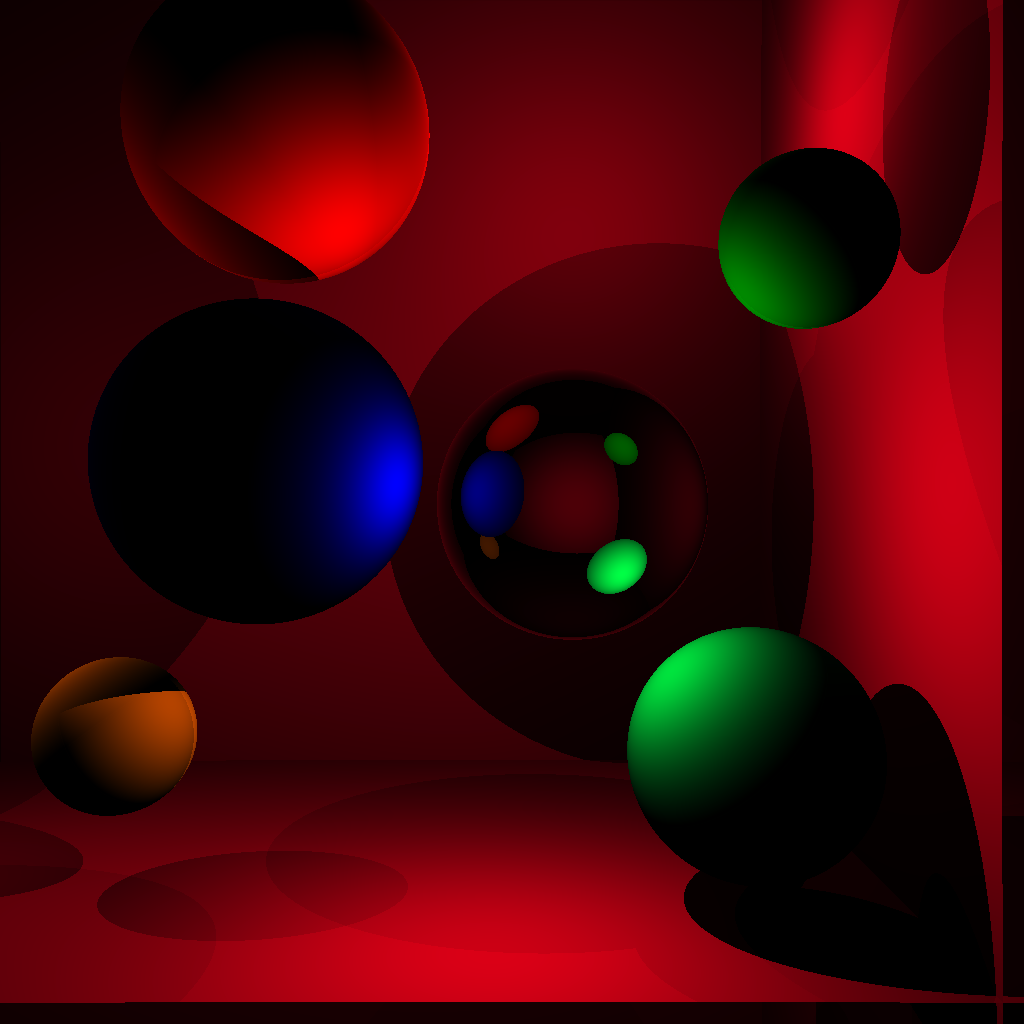
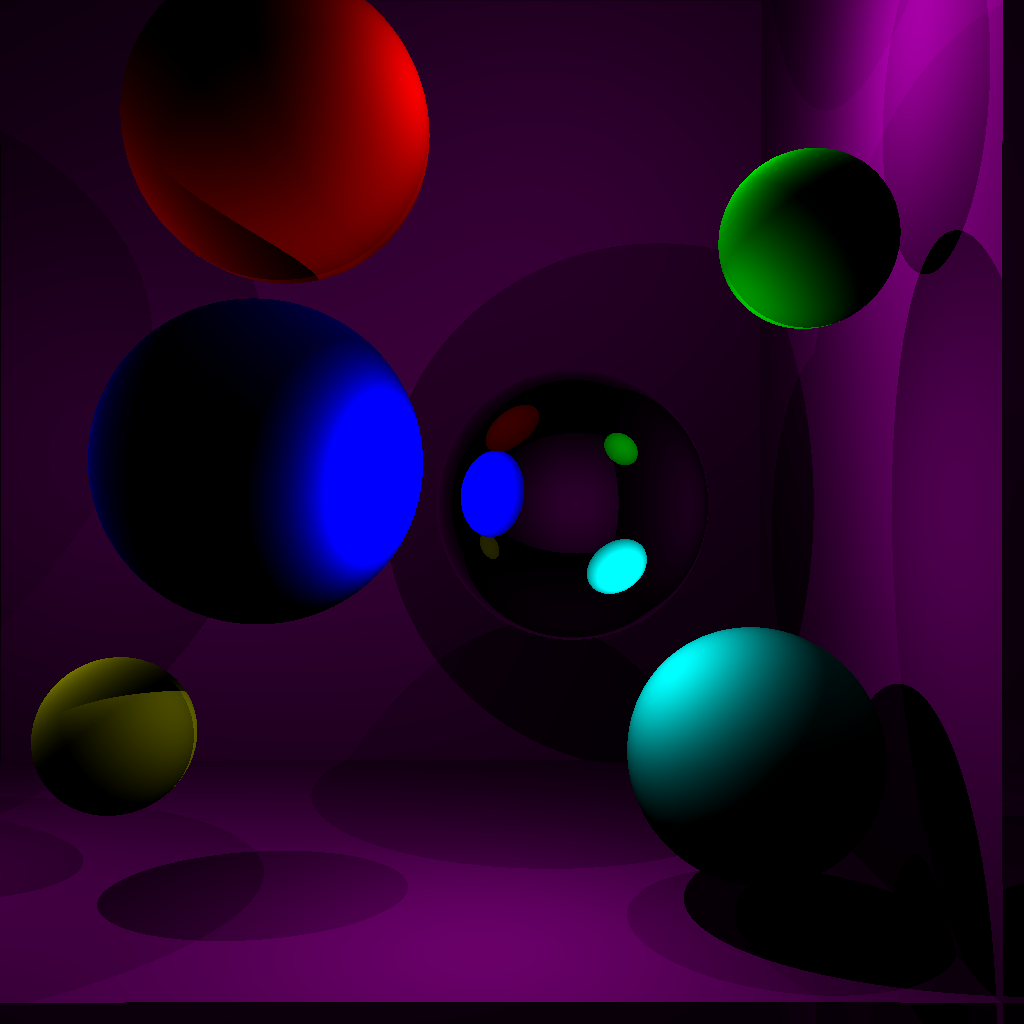
Correction normalisation des couleurs
Utilisation d'un seul max pour la normalisation des couleurs pour obtenir des couleurs fidèles aux albedos

diff --git a/SyntheseTP2/SyntheseTP2/Main.cpp b/SyntheseTP2/SyntheseTP2/Main.cpp
@@ -20,27 +20,36 @@ void encodeOneStep(const char* filename, std::vector<unsigned char>& image, unsi
 
 void normalizeColor(vector<unsigned char>* imageOut, vector<double>* image)
 {
-    double maxRed = 0;
-    double maxGreen = 0;
-    double maxBlue = 0;
+    double max = 0;
     for (int i = 0; i < image->size(); i += 4)
     {
-        if (image->at(i) > maxRed)
-            maxRed = image->at(i);
+        if (image->at(i) > max)
+            max = image->at(i);
 
-        if (image->at(i+1) > maxGreen)
-            maxGreen = image->at(i+1);
+        if (image->at(i+1) > max)
+            max = image->at(i+1);
 
-        if (image->at(i+2) > maxBlue)
-            maxBlue = image->at(i+2);
+        if (image->at(i+2) > max)
+            max = image->at(i+2);
     }
+    
+    max = max / 4;
     for (int i = 0; i < image->size(); i += 4)
     {
-         imageOut->at(i) = (int)((image->at(i) / maxRed) * 255);
+        if ((int)((image->at(i) / max) * 255) > 255)
+            imageOut->at(i) = 255;
+        else
+            imageOut->at(i) = (int)((image->at(i) / max) * 255);
 
-         imageOut->at(i+1) = (int)((image->at(i+1) / maxGreen) * 255);
+        if ((int)((image->at(i+1) / max) * 255) > 255)
+            imageOut->at(i+1) = 255;
+        else
+            imageOut->at(i+1) = (int)((image->at(i+1) / max) * 255);
 
-         imageOut->at(i+2) = (int)((image->at(i+2) / maxBlue) * 255);
+        if ((int)((image->at(i+2) / max) * 255) > 255)
+            imageOut->at(i+2) = 255;
+        else
+            imageOut->at(i+2) = (int)((image->at(i+2) / max) * 255);
 
          imageOut->at(i+3) = image->at(i+3);
     }
@@ -53,27 +62,6 @@ void color(vector<double>* img, int index, Couleur couleur)
     img->at(index + 1) += couleur.green;
 
     img->at(index + 2) += couleur.blue;
-
-    img->at(index + 3) = couleur.alpha;
-}
-
-void color(vector<unsigned char>* img, int index, Couleur couleur)
-{
-    
-    if (img->at(index) + couleur.red > 255)
-        img->at(index) = 255;
-    else
-        img->at(index) += couleur.red;
-
-    if (img->at(index+1) + couleur.green > 255)
-        img->at(index+1) = 255;
-    else
-        img->at(index+1) += couleur.green;    
-
-    if (img->at(index+2) + couleur.blue > 255)
-        img->at(index+2) = 255;
-    else
-        img->at(index+2) += couleur.blue;
 
     img->at(index + 3) = couleur.alpha;
 }
@@ -175,7 +163,7 @@ void mirrorRebound(Vector3 intersection, Rayon rayon, vector<Sphere*> spheres, i
             mirrorRebound(newIntersection, rayonSortant, spheres, sphereIntersect, image, index);
         else
         {
-            Lampe lampe = Lampe(intersection, newIntersection, 80000000);
+            Lampe lampe = Lampe(intersection, newIntersection, 50000000);
             Couleur surface = colorOnSurface(lampe, spheres[sphereIntersect]);
 
             color(image, index, surface);
@@ -270,11 +258,11 @@ int main(int argc, char* argv[]) {
 
         vector<Lampe> lampes;
 
-        Lampe lampe1 = Lampe(Vector3(500, 500, 100), 200000000);
+        Lampe lampe1 = Lampe(Vector3(500, 500, 100), 90000000);
 
         Lampe lampe2 = Lampe(Vector3(-300, 400, 300), 90000000);
 
-        Lampe lampe3 = Lampe(Vector3(650, -100, 500), 90000000);
+        Lampe lampe3 = Lampe(Vector3(650, -100, 200), 90000000);
 
         addLampe(&lampes, lampe1);
         addLampe(&lampes, lampe2);

diff --git a/SyntheseTP2/SyntheseTP2/Couleur.h b/SyntheseTP2/SyntheseTP2/Couleur.h
@@ -2,7 +2,7 @@
 class Couleur
 {
 private:
-	void CheckColors(float* red, float* green, float* blue, float* alpha)
+	void CheckColors(double* red, double* green, double* blue, float* alpha)
 	{
 		if (*red > 255)
 			*red = 255;
@@ -24,7 +24,7 @@ private:
 		if (*alpha < 0)
 			*alpha = 0;
 	}
-	void CheckColors(float* red, float* green, float* blue)
+	void CheckColors(double* red, double* green, double* blue)
 	{
 		if (*red > 255)
 			*red = 255;
@@ -42,12 +42,12 @@ private:
 			*blue = 0;
 	}
 public:
-	float blue;
-	float red;
-	float green;
+	double blue;
+	double red;
+	double green;
 	float alpha;
 
-	Couleur(float _red, float _green, float _blue, float _alpha)
+	Couleur(double _red, double _green, double _blue, float _alpha)
 	{
 		//CheckColors(&_red, &_green, &_blue, &_alpha);
 		red = _red;
@@ -55,7 +55,7 @@ public:
 		blue = _blue;
 		alpha = _alpha;
 	}
-	Couleur(float _red, float _green, float _blue)
+	Couleur(double _red, double _green, double _blue)
 	{
 		//CheckColors(&_red, &_green, &_blue);
 		red = _red;
@@ -65,9 +65,9 @@ public:
 	}
 	Couleur()
 	{
-		red = 255;
-		green = 255;
-		blue = 255;
+		red = 0;
+		green = 0;
+		blue = 0;
 		alpha = 255;
 	}
 	void operator=(Couleur c)
